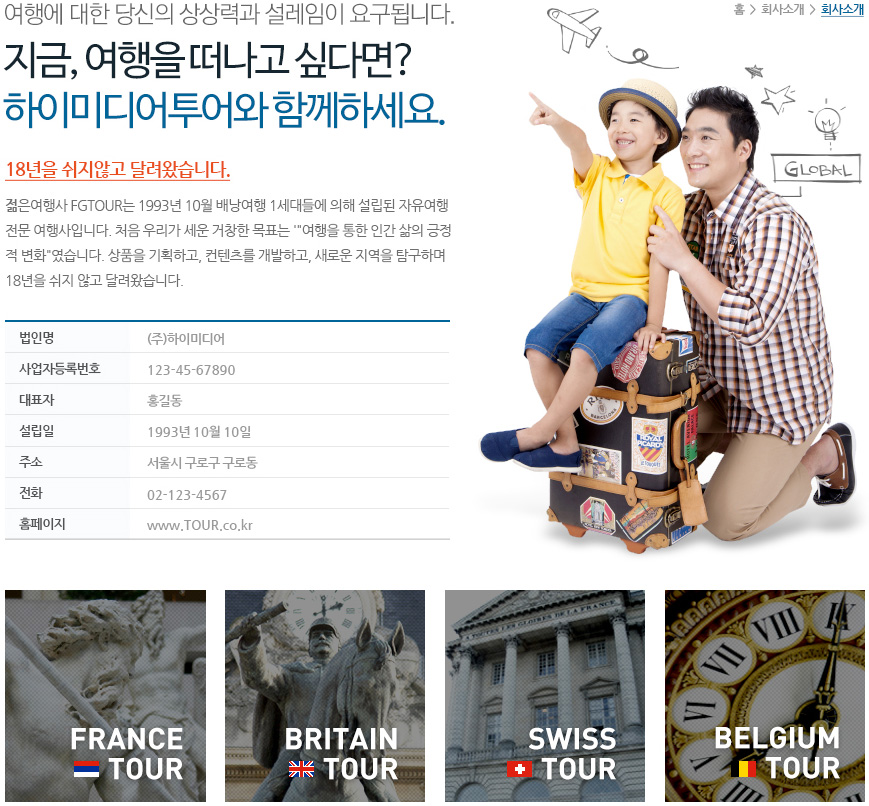
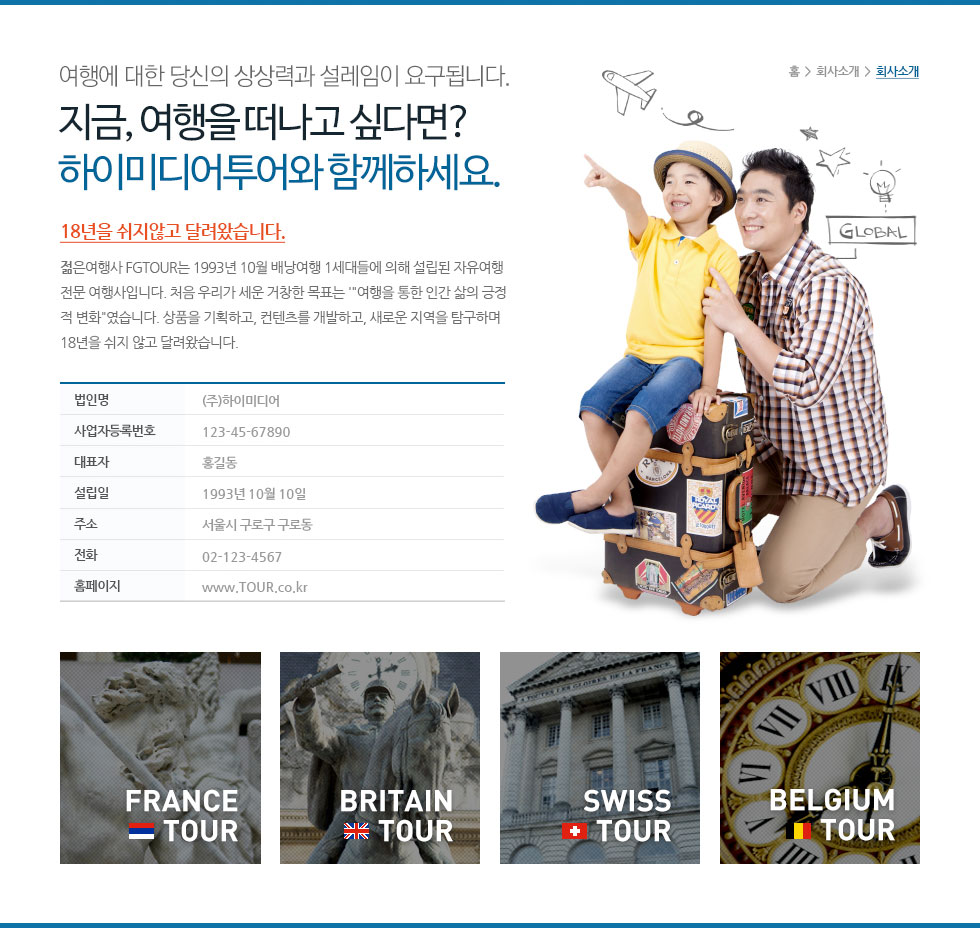
200720

diff --git a/05site/style.css b/05site/style.css
@@ -313,13 +313,24 @@ footer p{color: #757575; font-size: 8px;}
 
 
 /*===================================서브 페이지===================================*/
+.subWrap{background-color: #efefef;}
 .sub{
 	/*width: 100%;height: 100%; */
-	padding-top: 500px;
-	background-image:url(images/subimg01.jpg),url(images/00bg_dot.gif);
-	background-repeat: no-repeat,repeat;
+	padding-top: 155px;
+	background-image:url(images/00bg_dot.gif),url(images/subimg01.jpg);
+	background-repeat: repeat,no-repeat;
 	background-position:center;
-	background-size: cover,auto;
+	background-size: auto,cover;
 	position: relative;
-	/*이거 조절하다가 말음*/
 }
+.sub>img{position: absolute; 
+	top: 50%; left: 50%;
+	transform: translate(-50%,-50%);}
+.sub>p{color: white; position: absolute;
+	top: 85%; left: 50%;
+	transform: translate(-50%,-50%);}
+.sub>p>span{font-weight: bold;}
+
+	.mainContent{width: 980px; height: 928px; margin: 0 auto;}
+	
+	.mainContent>img{}

diff --git a/05site/company.html b/05site/company.html
@@ -57,8 +57,13 @@
 		</ul>
 	</div>
 <!-- ---------------아래에 뭔가를 넣읍니다---------------------- -->
-<div class="sub">
-	<div class="toppic"></div>
+<div class="subWrap">
+	<div class="sub">
+		<div class="toppic"></div>
+		<img src="images/logologo.png" alt="">
+		<p><span>회사소개</span> 하이미디어와 여행을 떠나세요</p>
+	</div>
+	<div class="mainContent"><img src="images/image_13.jpg" alt=""></div>
 </div>
 
 <!-- ------------------------------------- -->
